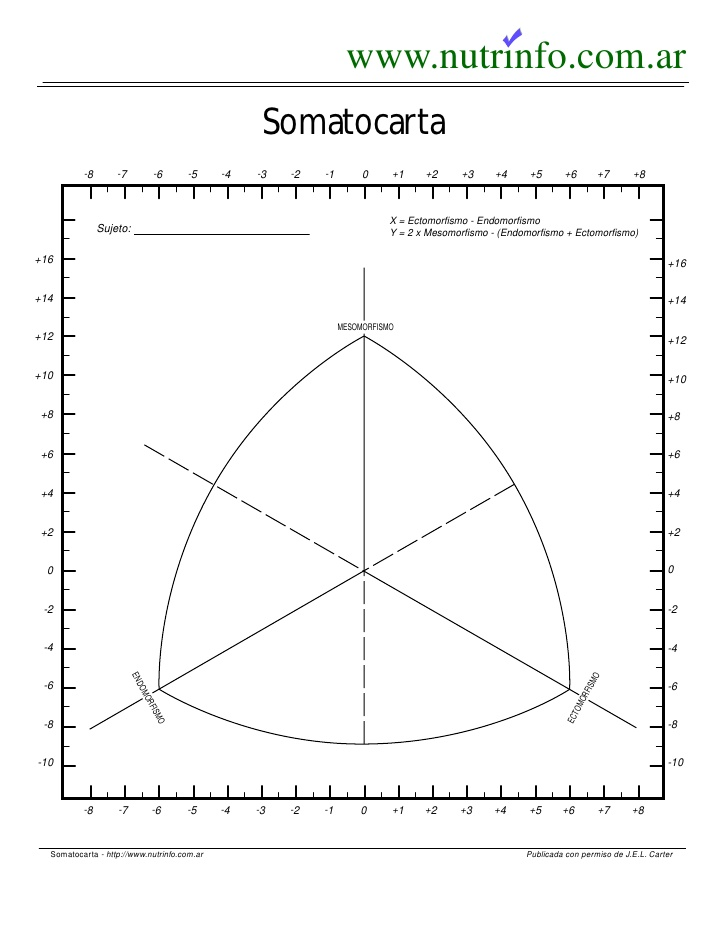
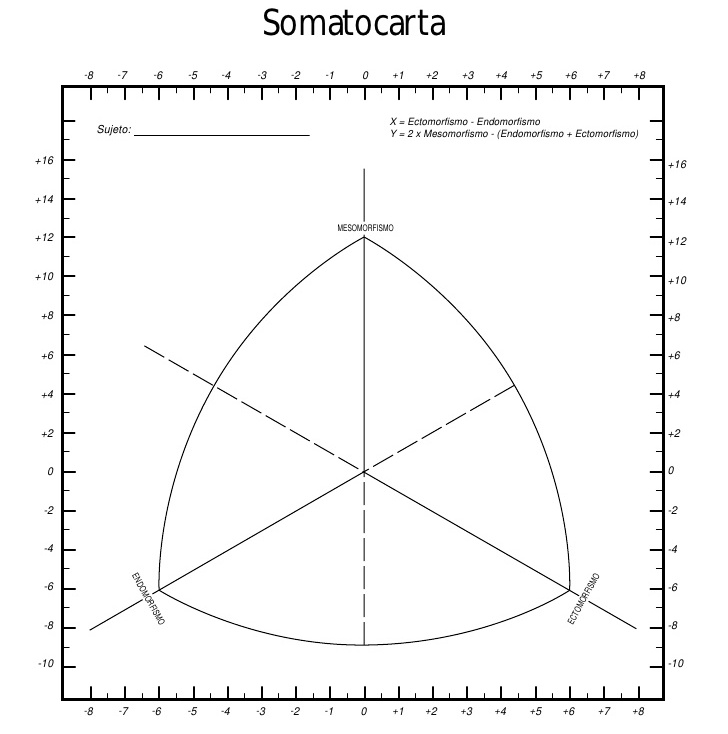
GraficaSomatocarta
Modificacion de acceso a la grafica

diff --git a/js/funciones.js b/js/funciones.js
@@ -200,6 +200,17 @@
                 });
 
 
+                $('#btnGraficaSomatocarta').click(function(){
+                    var idPaciente=$("#idPaciente").val();
+                      $.ajax({
+                        type: "GET",
+                        url: "http://"+ambito+"/appnutri/?modulo=medicionesAntropometricas&idPaciente="+idPaciente,
+                        data: "accion=graficarSomatocarta",
+                        success: function(a) {
+                                            $('#central').html(a); 
+                                             }
+                            });
+                });
 
 
 

diff --git a/controller/controllerMedicionesAntropometricas.php b/controller/controllerMedicionesAntropometricas.php
@@ -310,6 +310,23 @@ class controllerMedicionesAntropometricas {
     $smarty->display('graficaMedicionAntro.tpl');
        
    }
+   
+   public  function mostrarGraficaSomatocarta($idPaciente){
+                 //ACCESO A DATOS
+    
+     //PRESENTACION
+    $smarty = new Smarty;
+    $smarty->template_dir = 'vistas/smarty/templates/';
+    $smarty->compile_dir = 'vistas/smarty/templates_c/';
+    $smarty->config_dir = 'vistas/smarty/configs/';
+    $smarty->cache_dir = 'vistas/smarty/cache/';
+    
+
+    $smarty->assign('idPaciente',$idPaciente);
+    
+    $smarty->display('graficaSomatocarta.tpl');
+          
+   }
 
    //Genera las graficas de la mediciones antropometricas
       public function generarEstadisticaMedicionAntro($idPaciente )
@@ -450,7 +467,13 @@ if (isset($_REQUEST['modulo']))
                                 $this->mostrarGraficaMedicionAntro($this->request['idPaciente']);
                                 break;
     }                             
-    
+
+       case 'graficarSomatocarta': {
+        
+                                $this->mostrarGraficaSomatocarta($this->request['idPaciente']);
+                                break;
+    }                             
+     
     case 'generarGraficaMedicionAntro': {     
 
                                 $this->generarEstadisticaMedicionAntro($this->request['idPaciente']);

diff --git a/graficas/graficaSomatocarta.php b/graficas/graficaSomatocarta.php
@@ -59,7 +59,7 @@ $graph->SetScale("intint", -10, 16, -8, 8);
 //somatocartab
 //$graph->img->SetMargin(58,60, 70, 35);
 
-$graph->img->SetMargin(75,80, 160, 118);
+$graph->img->SetMargin(75,80, 130, 60);
 $graph->SetShadow();
  
 
